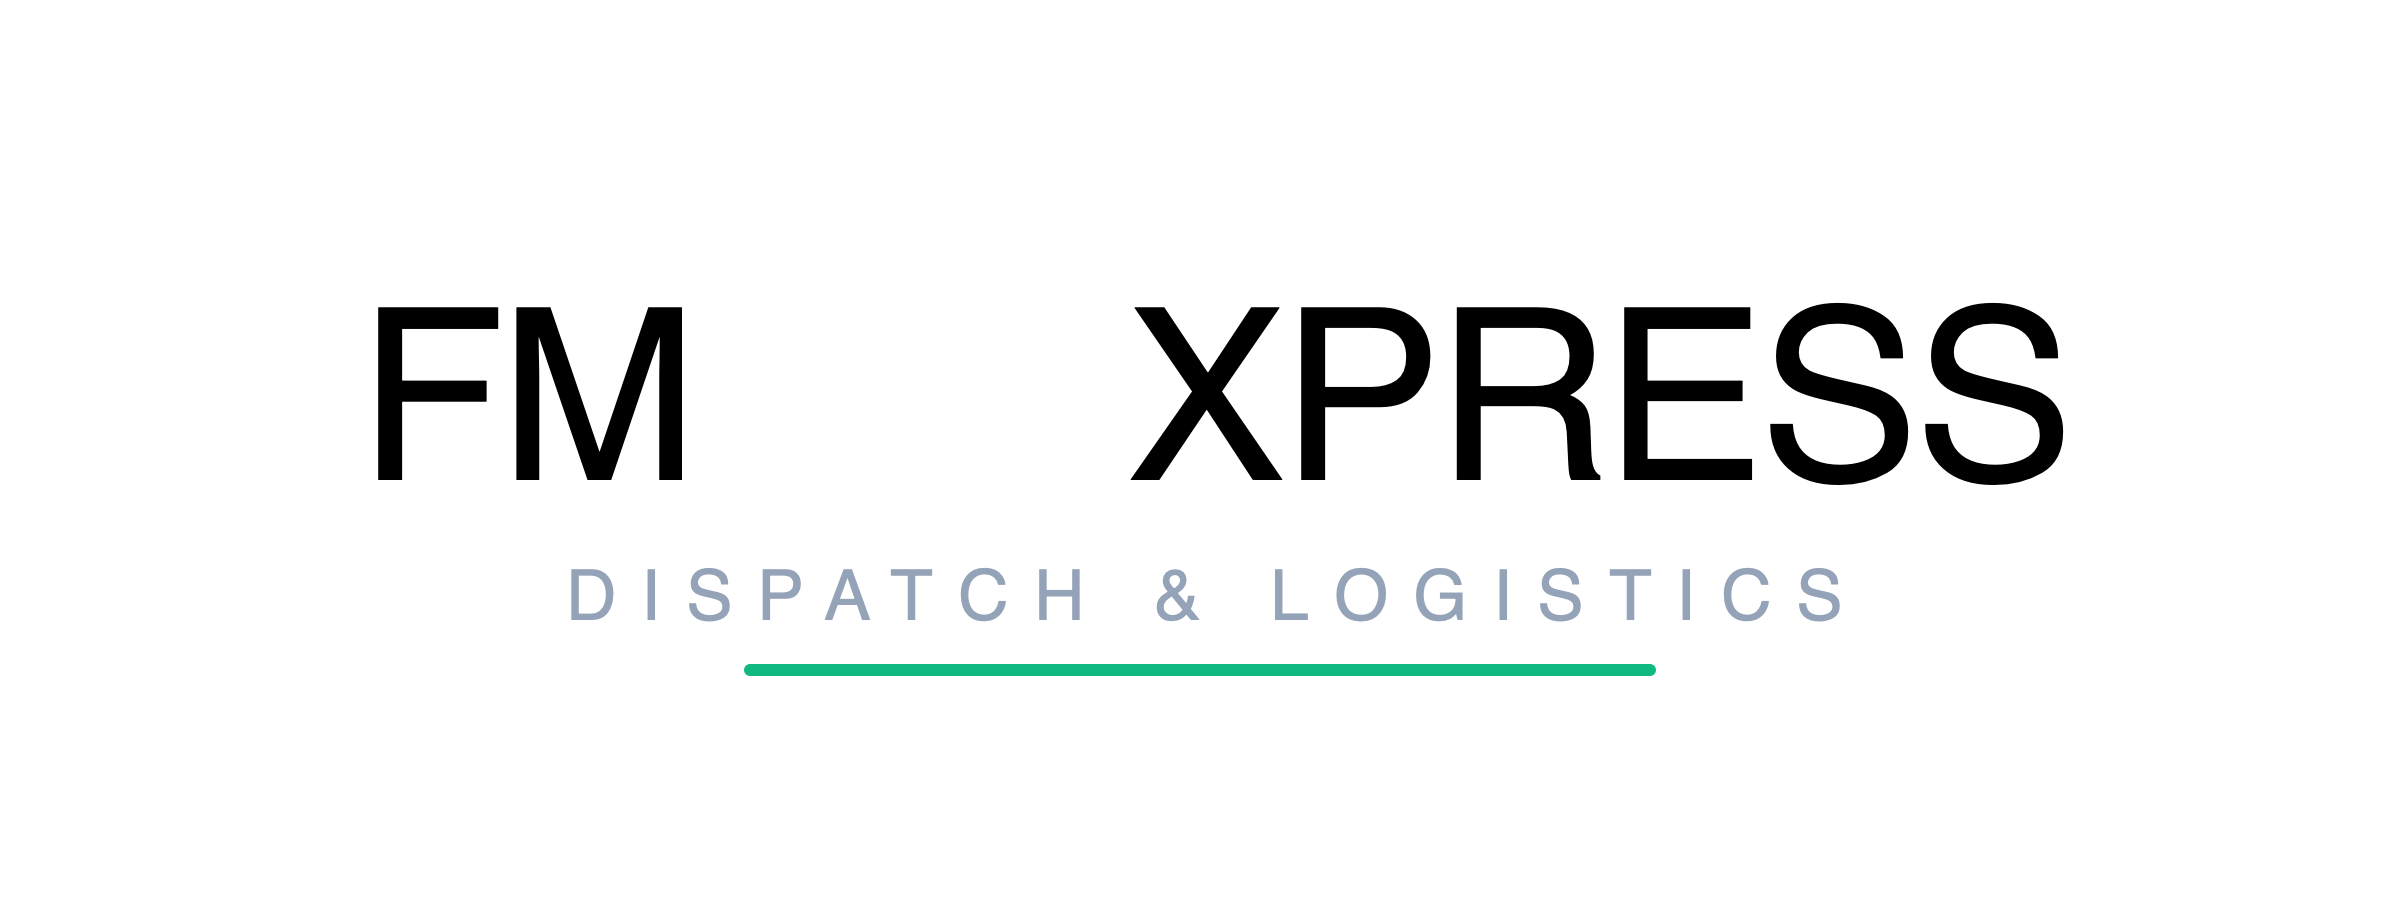
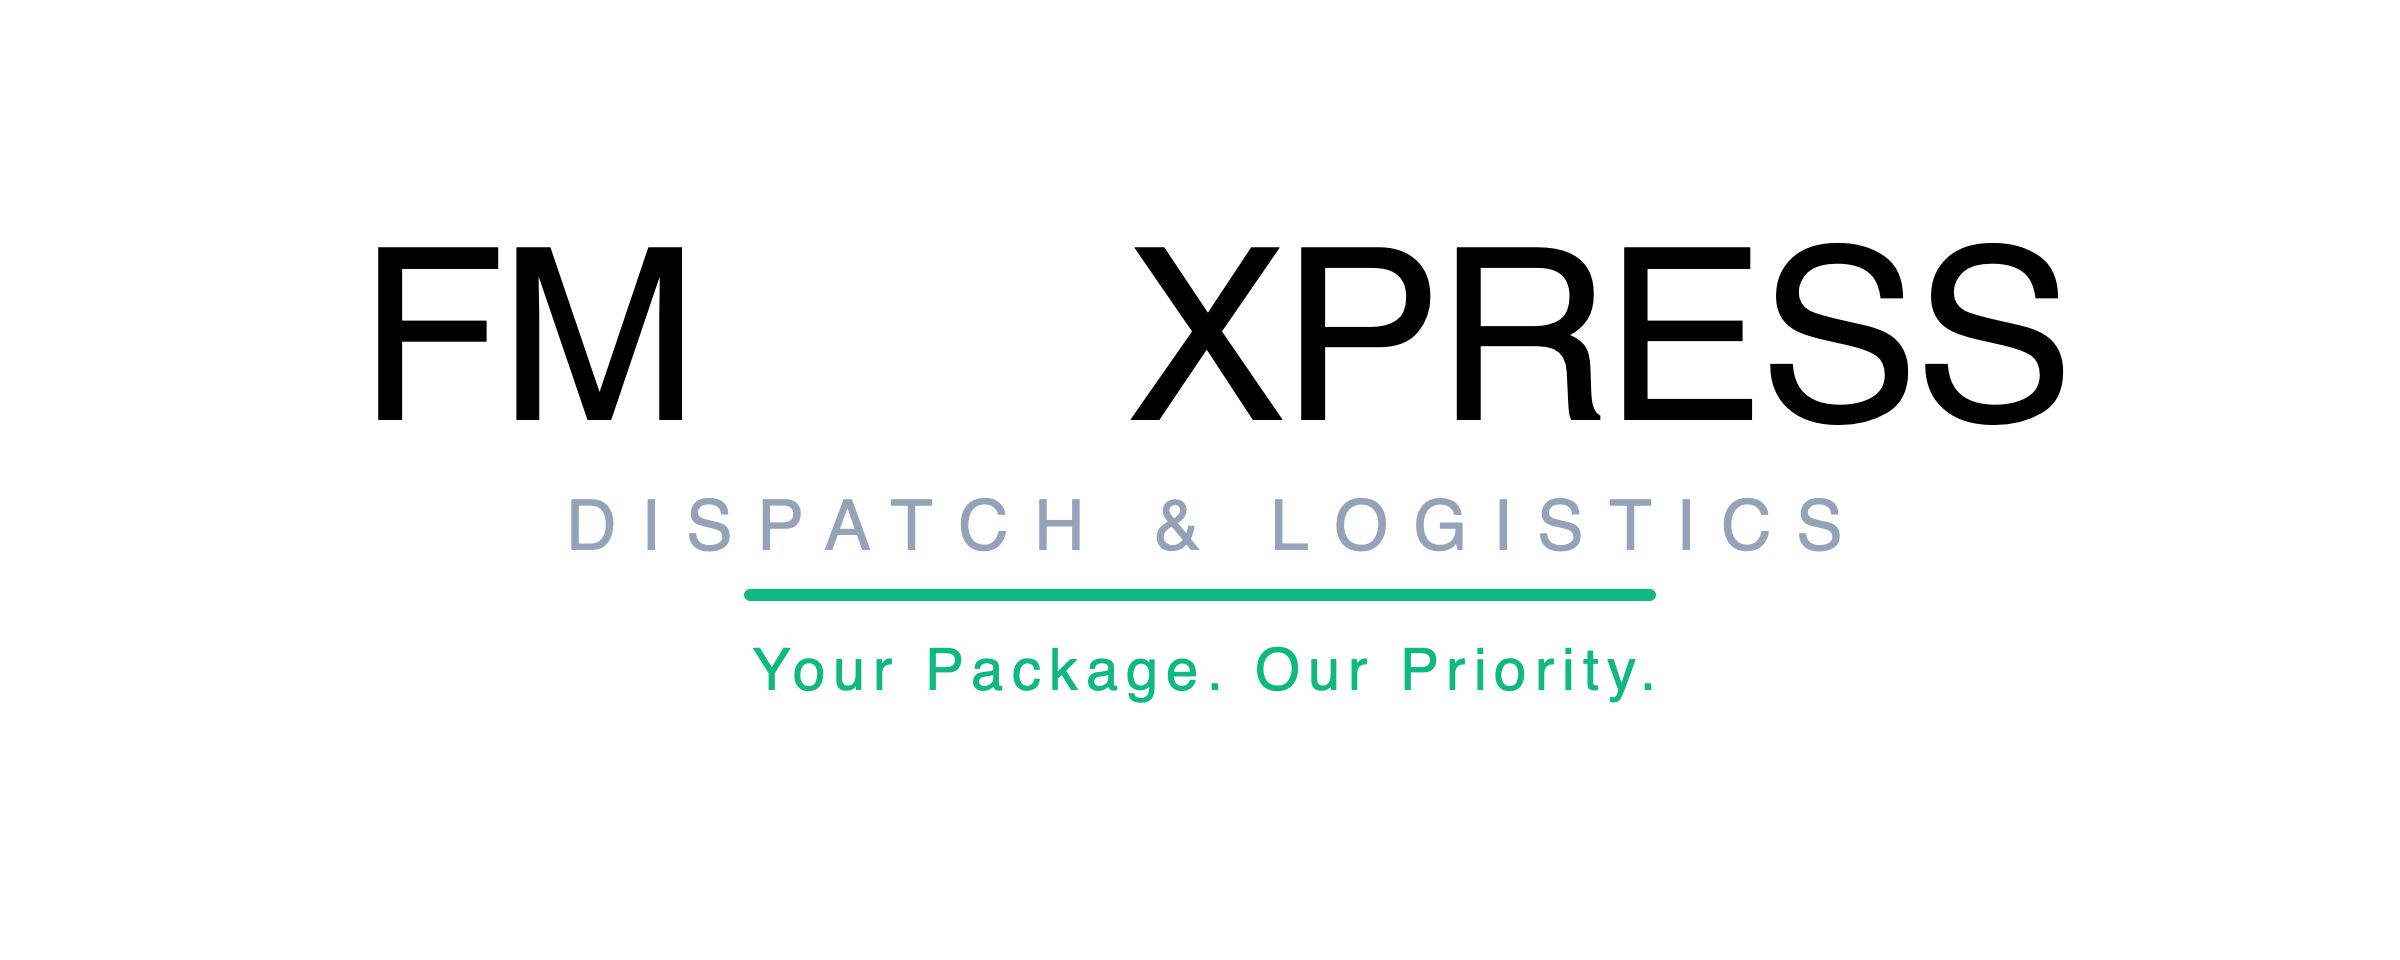
feat(brand): add official tagline 'Your Package. Our Priority.' and brand promise 'Fast. Reliable. Convenient.'

Changed region(s): [[0.1562, 0.2489, 0.875, 0.7778]]

diff --git a/public/tshirt-prototype.html b/public/tshirt-prototype.html
@@ -12,7 +12,7 @@
 
   <div class="bg-[var(--card)] text-[var(--foreground)] border border-[var(--border)] rounded-2xl p-3.5 shadow-md max-w-2xl mx-auto space-y-3">
     
-    <!-- HEADER BAR: TITLE & COLOR TOGGLES -->
+    <!-- HEADER BAR: TITLE, TAGLINE & COLOR TOGGLES -->
     <div class="flex flex-wrap items-center justify-between gap-2 border-b border-[var(--border)] pb-2.5">
       <div>
         <div class="flex items-center gap-2">
@@ -20,10 +20,12 @@
             FM <span class="text-emerald-500">XPRESS</span>
           </span>
           <span class="text-[11px] font-bold px-2 py-0.5 rounded-full bg-emerald-500/10 text-emerald-500 border border-emerald-500/30">
-            RIDER UNIFORM PROTOTYPE
+            OFFICIAL UNIFORM
           </span>
         </div>
-        <p class="text-[11px] text-[var(--muted-foreground)]">Dispatch Uniform • Front Chest &amp; Scannable Barcode/QR Back</p>
+        <p class="text-[11px] text-[var(--muted-foreground)]">
+          <span class="text-emerald-500 font-bold">Your Package. Our Priority.</span> • Fast. Reliable. Convenient.
+        </p>
       </div>
 
       <!-- COLOR SELECTOR -->
@@ -111,13 +113,16 @@
             <line x1="77" y1="278" x2="223" y2="278" stroke="#475569" stroke-width="0.75" stroke-dasharray="3,2" opacity="0.4"/>
 
             <!-- FRONT CHEST BRAND PRINT (26cm centered) -->
-            <g transform="translate(150, 118)" text-anchor="middle">
+            <g transform="translate(150, 114)" text-anchor="middle">
               <text y="0" font-family="system-ui, -apple-system, sans-serif" font-weight="900" font-size="21" letter-spacing="-0.5">
                 <tspan id="front-fm-text" fill="#FFFFFF" class="tshirt-transition">FM</tspan>
                 <tspan fill="#10B981" font-weight="900"> XPRESS</tspan>
               </text>
-              <text id="front-sub" y="14" font-family="system-ui, -apple-system, sans-serif" font-weight="800" font-size="6.5" fill="#94a3b8" letter-spacing="2.5" class="tshirt-transition">
+              <text id="front-sub" y="13.5" font-family="system-ui, -apple-system, sans-serif" font-weight="800" font-size="6.5" fill="#94a3b8" letter-spacing="2.5" class="tshirt-transition">
                 DISPATCH &amp; LOGISTICS
+              </text>
+              <text id="front-tagline" y="23" font-family="system-ui, -apple-system, sans-serif" font-weight="700" font-size="5.2" fill="#10B981" letter-spacing="0.8" class="tshirt-transition">
+                Your Package. Our Priority.
               </text>
             </g>
           </svg>
@@ -174,73 +179,76 @@
             <line x1="77" y1="278" x2="223" y2="278" stroke="#475569" stroke-width="0.75" stroke-dasharray="3,2" opacity="0.4"/>
 
             <!-- BACK BRAND GRAPHIC, QR CODE & LOGISTICS BARCODE -->
-            <g transform="translate(150, 56)" text-anchor="middle">
+            <g transform="translate(150, 48)" text-anchor="middle">
               <!-- TOP SHOULDER BRAND -->
-              <text y="0" font-family="system-ui, -apple-system, sans-serif" font-weight="900" font-size="16" letter-spacing="-0.5">
+              <text y="0" font-family="system-ui, -apple-system, sans-serif" font-weight="900" font-size="15" letter-spacing="-0.5">
                 <tspan id="back-fm-text" fill="#FFFFFF" class="tshirt-transition">FM</tspan>
                 <tspan fill="#10B981" font-weight="900"> XPRESS</tspan>
               </text>
-              <text y="10.5" font-family="system-ui, -apple-system, sans-serif" font-weight="800" font-size="5.2" fill="#10B981" letter-spacing="1.5">
+              <text id="back-tagline" y="8.5" font-family="system-ui, -apple-system, sans-serif" font-weight="800" font-size="4.6" fill="#FFFFFF" letter-spacing="0.5" opacity="0.9" class="tshirt-transition">
+                YOUR PACKAGE. OUR PRIORITY.
+              </text>
+              <text y="16.5" font-family="system-ui, -apple-system, sans-serif" font-weight="800" font-size="4.8" fill="#10B981" letter-spacing="1.2">
                 CHAT &amp; BOOK ON WHATSAPP
               </text>
 
               <!-- QR CODE & BARCODE CONTAINER BADGE -->
-              <g transform="translate(-37, 16)">
+              <g transform="translate(-37, 21)">
                 <!-- Crisp White Card with soft shadow -->
-                <rect width="74" height="90" rx="7" fill="#FFFFFF" filter="drop-shadow(0 3px 8px rgba(0,0,0,0.45))"/>
+                <rect width="74" height="88" rx="7" fill="#FFFFFF" filter="drop-shadow(0 3px 8px rgba(0,0,0,0.45))"/>
                 
                 <!-- === QR CODE SECTION (Top) === -->
                 <!-- Top-Left Finder -->
-                <rect x="7" y="6" width="14" height="14" fill="#0f172a" rx="1.5"/>
-                <rect x="9" y="8" width="10" height="10" fill="#FFFFFF" rx="1"/>
-                <rect x="11" y="10" width="6" height="6" fill="#0f172a" rx="0.5"/>
+                <rect x="7" y="5.5" width="14" height="14" fill="#0f172a" rx="1.5"/>
+                <rect x="9" y="7.5" width="10" height="10" fill="#FFFFFF" rx="1"/>
+                <rect x="11" y="9.5" width="6" height="6" fill="#0f172a" rx="0.5"/>
 
                 <!-- Top-Right Finder -->
-                <rect x="53" y="6" width="14" height="14" fill="#0f172a" rx="1.5"/>
-                <rect x="55" y="8" width="10" height="10" fill="#FFFFFF" rx="1"/>
-                <rect x="57" y="10" width="6" height="6" fill="#0f172a" rx="0.5"/>
+                <rect x="53" y="5.5" width="14" height="14" fill="#0f172a" rx="1.5"/>
+                <rect x="55" y="7.5" width="10" height="10" fill="#FFFFFF" rx="1"/>
+                <rect x="57" y="9.5" width="6" height="6" fill="#0f172a" rx="0.5"/>
 
                 <!-- Bottom-Left Finder -->
-                <rect x="7" y="38" width="14" height="14" fill="#0f172a" rx="1.5"/>
-                <rect x="9" y="40" width="10" height="10" fill="#FFFFFF" rx="1"/>
-                <rect x="11" y="42" width="6" height="6" fill="#0f172a" rx="0.5"/>
+                <rect x="7" y="37.5" width="14" height="14" fill="#0f172a" rx="1.5"/>
+                <rect x="9" y="39.5" width="10" height="10" fill="#FFFFFF" rx="1"/>
+                <rect x="11" y="41.5" width="6" height="6" fill="#0f172a" rx="0.5"/>
 
                 <!-- QR Data Matrix Dots -->
-                <rect x="24" y="6" width="4" height="4" fill="#0f172a"/>
-                <rect x="31" y="6" width="5" height="4" fill="#0f172a"/>
-                <rect x="39" y="6" width="4" height="4" fill="#0f172a"/>
-                <rect x="46" y="6" width="4" height="4" fill="#0f172a"/>
-                <rect x="24" y="13" width="5" height="4" fill="#0f172a"/>
-                <rect x="32" y="13" width="4" height="4" fill="#0f172a"/>
-                <rect x="42" y="13" width="5" height="4" fill="#0f172a"/>
-                <rect x="7" y="23" width="4" height="4" fill="#0f172a"/>
-                <rect x="14" y="23" width="4" height="4" fill="#0f172a"/>
-                <rect x="23" y="22" width="6" height="6" fill="#10B981" rx="1"/>
-                <rect x="32" y="22" width="6" height="6" fill="#10B981" rx="1"/>
-                <rect x="41" y="22" width="6" height="6" fill="#10B981" rx="1"/>
-                <rect x="50" y="23" width="5" height="4" fill="#0f172a"/>
-                <rect x="58" y="23" width="4" height="4" fill="#0f172a"/>
-                <rect x="24" y="31" width="4" height="4" fill="#0f172a"/>
-                <rect x="32" y="31" width="6" height="4" fill="#0f172a"/>
-                <rect x="42" y="31" width="4" height="4" fill="#0f172a"/>
-                <rect x="24" y="38" width="5" height="4" fill="#0f172a"/>
-                <rect x="32" y="38" width="5" height="4" fill="#0f172a"/>
-                <rect x="40" y="38" width="4" height="4" fill="#0f172a"/>
-                <rect x="48" y="38" width="4" height="4" fill="#0f172a"/>
-                <rect x="24" y="46" width="4" height="5" fill="#0f172a"/>
-                <rect x="32" y="46" width="5" height="5" fill="#0f172a"/>
-                <rect x="41" y="46" width="5" height="5" fill="#0f172a"/>
+                <rect x="24" y="5.5" width="4" height="4" fill="#0f172a"/>
+                <rect x="31" y="5.5" width="5" height="4" fill="#0f172a"/>
+                <rect x="39" y="5.5" width="4" height="4" fill="#0f172a"/>
+                <rect x="46" y="5.5" width="4" height="4" fill="#0f172a"/>
+                <rect x="24" y="12.5" width="5" height="4" fill="#0f172a"/>
+                <rect x="32" y="12.5" width="4" height="4" fill="#0f172a"/>
+                <rect x="42" y="12.5" width="5" height="4" fill="#0f172a"/>
+                <rect x="7" y="22.5" width="4" height="4" fill="#0f172a"/>
+                <rect x="14" y="22.5" width="4" height="4" fill="#0f172a"/>
+                <rect x="23" y="21.5" width="6" height="6" fill="#10B981" rx="1"/>
+                <rect x="32" y="21.5" width="6" height="6" fill="#10B981" rx="1"/>
+                <rect x="41" y="21.5" width="6" height="6" fill="#10B981" rx="1"/>
+                <rect x="50" y="22.5" width="5" height="4" fill="#0f172a"/>
+                <rect x="58" y="22.5" width="4" height="4" fill="#0f172a"/>
+                <rect x="24" y="30.5" width="4" height="4" fill="#0f172a"/>
+                <rect x="32" y="30.5" width="6" height="4" fill="#0f172a"/>
+                <rect x="42" y="30.5" width="4" height="4" fill="#0f172a"/>
+                <rect x="24" y="37.5" width="5" height="4" fill="#0f172a"/>
+                <rect x="32" y="37.5" width="5" height="4" fill="#0f172a"/>
+                <rect x="40" y="37.5" width="4" height="4" fill="#0f172a"/>
+                <rect x="48" y="37.5" width="4" height="4" fill="#0f172a"/>
+                <rect x="24" y="45.5" width="4" height="5" fill="#0f172a"/>
+                <rect x="32" y="45.5" width="5" height="5" fill="#0f172a"/>
+                <rect x="41" y="45.5" width="5" height="5" fill="#0f172a"/>
 
                 <!-- SCAN TO CHAT LABEL -->
-                <text x="37" y="58.5" font-family="system-ui, -apple-system, sans-serif" font-weight="900" font-size="4.8" fill="#0f172a" text-anchor="middle" letter-spacing="0.4">
+                <text x="37" y="57.5" font-family="system-ui, -apple-system, sans-serif" font-weight="900" font-size="4.7" fill="#0f172a" text-anchor="middle" letter-spacing="0.4">
                   SCAN TO BOOK ON WHATSAPP
                 </text>
 
                 <!-- DIVIDER LINE -->
-                <line x1="6" y1="61.5" x2="68" y2="61.5" stroke="#e2e8f0" stroke-width="0.8"/>
+                <line x1="6" y1="60.5" x2="68" y2="60.5" stroke="#e2e8f0" stroke-width="0.8"/>
 
                 <!-- === LOGISTICS 1D BARCODE SECTION (Bottom) === -->
-                <g transform="translate(6, 64.5)">
+                <g transform="translate(6, 63)">
                   <!-- Code 128 Industrial Dispatch Bars -->
                   <rect x="0" y="0" width="1.2" height="15" fill="#0f172a"/>
                   <rect x="2" y="0" width="2" height="15" fill="#0f172a"/>
@@ -266,17 +274,22 @@
                   <rect x="60.5" y="0" width="1.5" height="15" fill="#0f172a"/>
 
                   <!-- Human-Readable Barcode ID -->
-                  <text x="31" y="21.5" font-family="'Courier New', Courier, monospace" font-weight="900" font-size="4.2" fill="#475569" text-anchor="middle" letter-spacing="1">
+                  <text x="31" y="21" font-family="'Courier New', Courier, monospace" font-weight="900" font-size="4.2" fill="#475569" text-anchor="middle" letter-spacing="1">
                     *FMX-LOGISTICS*
                   </text>
                 </g>
               </g>
 
+              <!-- BRAND PROMISE -->
+              <text y="119.5" font-family="system-ui, -apple-system, sans-serif" font-weight="800" font-size="5" fill="#10B981" letter-spacing="1.2">
+                FAST • RELIABLE • CONVENIENT
+              </text>
+
               <!-- BOTTOM PHONE NUMBER & WEBSITE -->
-              <text id="back-phone" y="122" font-family="system-ui, -apple-system, sans-serif" font-weight="900" font-size="10.5" fill="#FFFFFF" letter-spacing="0.8" class="tshirt-transition">
+              <text id="back-phone" y="129.5" font-family="system-ui, -apple-system, sans-serif" font-weight="900" font-size="10.5" fill="#FFFFFF" letter-spacing="0.8" class="tshirt-transition">
                 0903 686 9830
               </text>
-              <text y="131" font-family="system-ui, -apple-system, sans-serif" font-weight="600" font-size="5.5" fill="#64748b" letter-spacing="0.5">
+              <text y="137.5" font-family="system-ui, -apple-system, sans-serif" font-weight="600" font-size="5.2" fill="#64748b" letter-spacing="0.5">
                 fmxpress.tekvolutionhq.com
               </text>
             </g>
@@ -292,8 +305,8 @@
     <div class="bg-[var(--background)] border border-[var(--border)] rounded-xl p-2.5 flex flex-wrap items-center justify-between gap-2 text-xs">
       <div class="flex items-center gap-2">
         <span class="w-2 h-2 rounded-full bg-emerald-500 animate-pulse"></span>
-        <span class="font-bold text-[var(--foreground)]">Print Spec:</span>
-        <span class="text-[var(--muted-foreground)]">Round-Neck (Crewneck) • 100% Combed Cotton (180–200 GSM)</span>
+        <span class="font-bold text-[var(--foreground)]">Brand Promise:</span>
+        <span class="text-emerald-500 font-bold">Fast. Reliable. Convenient.</span>
       </div>
       <div class="flex items-center gap-2 font-mono text-[11px]">
         <span class="px-2 py-0.5 rounded bg-emerald-500/10 text-emerald-500 font-bold">#10B981 Speed Emerald</span>
@@ -316,8 +329,10 @@
 
       const frontFmText = document.getElementById('front-fm-text');
       const backFmText = document.getElementById('back-fm-text');
+      const backTagline = document.getElementById('back-tagline');
       const backPhone = document.getElementById('back-phone');
       const frontSub = document.getElementById('front-sub');
+      const frontTagline = document.getElementById('front-tagline');
 
       // Reset button classes
       [btnBlack, btnWhite, btnGreen].forEach(btn => {
@@ -340,8 +355,10 @@
 
         frontFmText.setAttribute('fill', '#0f172a');
         backFmText.setAttribute('fill', '#0f172a');
+        backTagline.setAttribute('fill', '#0f172a');
         backPhone.setAttribute('fill', '#0f172a');
         frontSub.setAttribute('fill', '#475569');
+        frontTagline.setAttribute('fill', '#059669');
       } else if (color === 'green') {
         btnGreen.className = activeClass;
         frontBody.setAttribute('fill', 'url(#greenFrontGrad)');
@@ -356,8 +373,10 @@
 
         frontFmText.setAttribute('fill', '#FFFFFF');
         backFmText.setAttribute('fill', '#FFFFFF');
+        backTagline.setAttribute('fill', '#FFFFFF');
         backPhone.setAttribute('fill', '#FFFFFF');
         frontSub.setAttribute('fill', '#A7F3D0');
+        frontTagline.setAttribute('fill', '#FFFFFF');
       } else {
         btnBlack.className = activeClass;
         frontBody.setAttribute('fill', 'url(#blackFrontGrad)');
@@ -372,8 +391,10 @@
 
         frontFmText.setAttribute('fill', '#FFFFFF');
         backFmText.setAttribute('fill', '#FFFFFF');
+        backTagline.setAttribute('fill', '#FFFFFF');
         backPhone.setAttribute('fill', '#FFFFFF');
         frontSub.setAttribute('fill', '#94a3b8');
+        frontTagline.setAttribute('fill', '#10B981');
       }
     }
   </script>

diff --git a/public/index.html b/public/index.html
@@ -79,9 +79,9 @@
         <div>
           <span class="text-xl font-extrabold tracking-tight text-white flex items-center gap-1.5 leading-none">
             FM <span class="text-emerald-400">XPRESS</span>
-            <span class="text-[10px] font-bold px-2 py-0.5 rounded-full bg-emerald-500/10 text-emerald-400 border border-emerald-500/30 ml-1">ABUJA</span>
+            <span class="text-[10px] font-bold px-2 py-0.5 rounded-full bg-emerald-500/10 text-emerald-400 border border-emerald-500/30 ml-1">LOGISTICS</span>
           </span>
-          <p class="text-[11px] text-slate-400 font-medium mt-1">Motorcycle Dispatch &amp; Logistics</p>
+          <p class="text-[11px] text-emerald-400 font-semibold mt-1">Your Package. Our Priority.</p>
         </div>
       </a>
 
@@ -114,13 +114,13 @@
         <div class="lg:col-span-7 space-y-6 text-center lg:text-left">
           <div class="inline-flex items-center gap-2 px-3.5 py-1.5 rounded-full bg-emerald-500/10 border border-emerald-500/20 text-emerald-400 text-xs font-semibold">
             <span class="w-2 h-2 rounded-full bg-emerald-400 animate-pulse"></span>
-            Live Dispatch Active in Abuja Today
+            Fast • Reliable • Convenient
           </div>
           <h1 class="text-4xl sm:text-6xl font-extrabold tracking-tight text-white leading-[1.1]">
-            Fastest Motorcycle Dispatch Across <span class="bg-gradient-to-r from-emerald-400 via-teal-300 to-sky-400 bg-clip-text text-transparent">Abuja</span>.
+            Your Package. <br><span class="bg-gradient-to-r from-emerald-400 via-teal-300 to-sky-400 bg-clip-text text-transparent">Our Priority.</span>
           </h1>
           <p class="text-base sm:text-lg text-slate-300 max-w-2xl mx-auto lg:mx-0 font-normal leading-relaxed">
-            Instant door-to-door courier service. Book in 15 seconds on WhatsApp with live Google Maps routing, verified riders, and automated Paystack checkout.
+            Fast, reliable, and convenient motorcycle parcel dispatch. Book in 15 seconds on WhatsApp with live Google Maps routing, verified riders, and instant checkout.
           </p>
           
           <div class="flex flex-col sm:flex-row items-center justify-center lg:justify-start gap-4 pt-2">
@@ -398,8 +398,8 @@
       <a href="/" class="flex items-center gap-3 cursor-pointer group hover:opacity-90 transition">
         <span class="text-2xl group-hover:scale-105 transition">🏍</span>
         <div>
-          <span class="font-extrabold text-slate-200 text-sm">FM <span class="text-emerald-400">XPRESS</span> Abuja</span>
-          <p class="text-[11px] text-slate-500 mt-0.5">Reliable Dispatch Delivery • Fast • Transparent</p>
+          <span class="font-extrabold text-slate-200 text-sm">FM <span class="text-emerald-400">XPRESS</span></span>
+          <p class="text-[11px] text-slate-400 mt-0.5"><span class="text-emerald-400 font-semibold">Your Package. Our Priority.</span> • Fast. Reliable. Convenient.</p>
         </div>
       </a>
 
